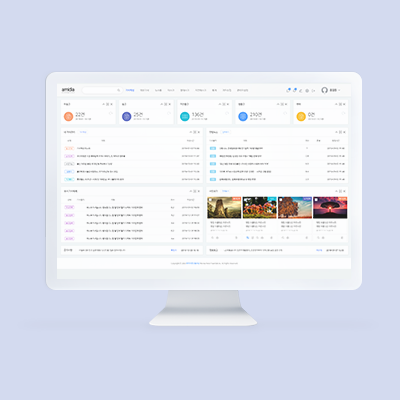
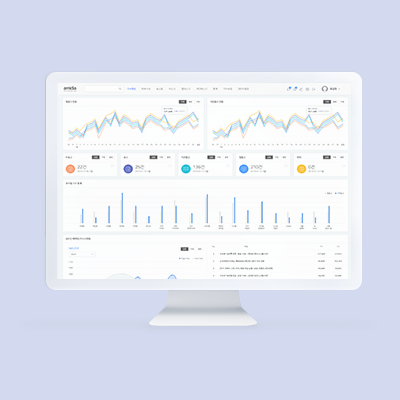
commit

diff --git a/index.html b/index.html
@@ -157,7 +157,7 @@
                 <h4>부산일보</h4>
                 <small>Web Design</small>
               </div>
-              <img src="img/portfolio/13-small.png" class="img-responsive" alt="부산일보"> </a>
+              <img src="img/portfolio/16-small.png" class="img-responsive" alt="부산일보"> </a>
             </div>
           </div>
         </div>
